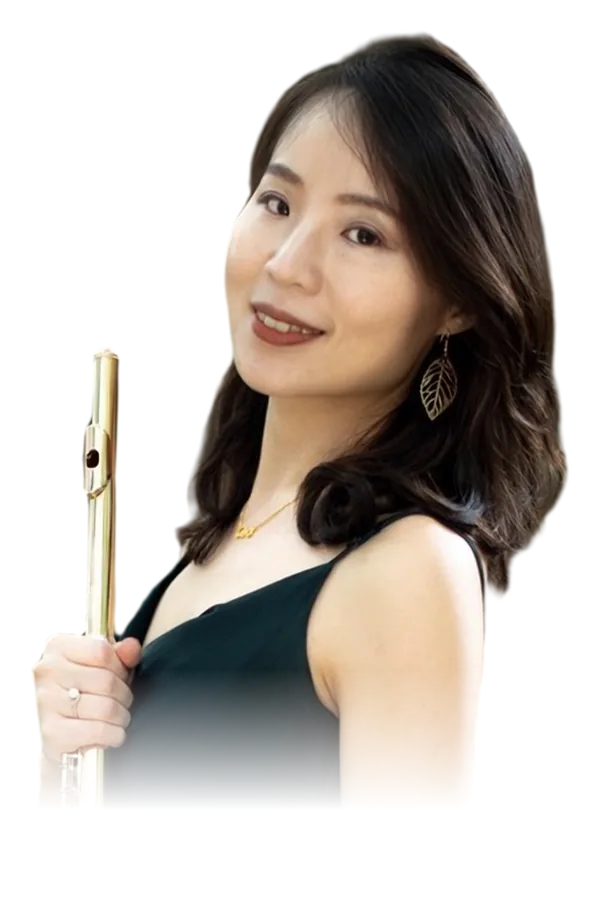
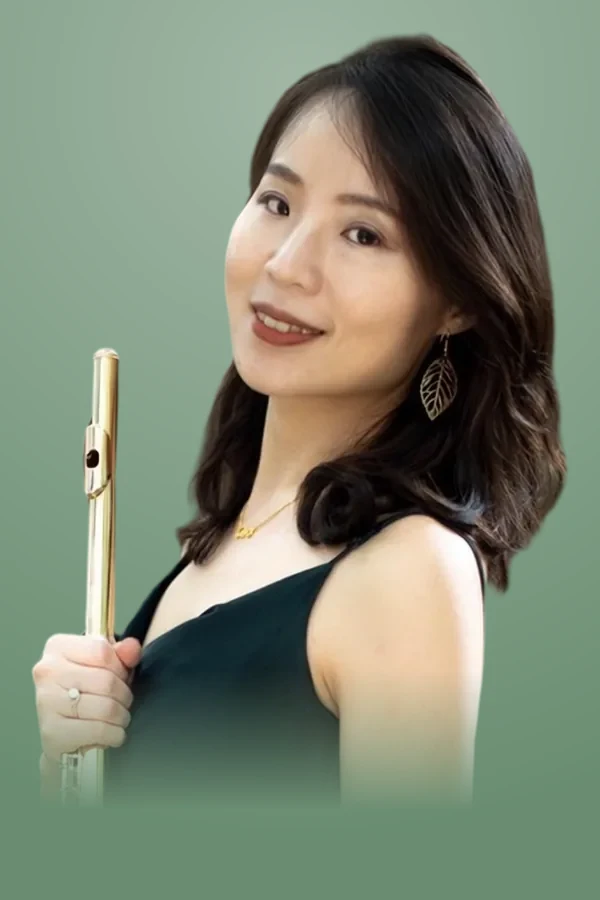
update programme layout and performer photos

diff --git a/index.html b/index.html
@@ -130,7 +130,7 @@ main>section{position:relative;padding:0 var(--gutter)}
 .piece .composer{font-size:15px;line-height:1.5;color:var(--text-2);letter-spacing:.08em;align-self:center;display:flex;flex-direction:column;align-items:flex-start;row-gap:0}
 .piece .composer .zh{white-space:nowrap}
 .piece .composer .en{font:500 14px var(--f-latin);letter-spacing:.1em;color:var(--gold);font-variant-caps:all-small-caps}
-.piece .title-zh{grid-column:2/4;font-size:19px;font-weight:600;line-height:1.5;letter-spacing:.02em;color:var(--text);text-spacing-trim:trim-start;overflow-wrap:anywhere}
+.piece .title-zh{grid-column:2/4;font-size:21px;font-weight:600;line-height:1.5;letter-spacing:.02em;color:var(--gold-hi);text-spacing-trim:trim-start;overflow-wrap:anywhere;text-shadow:0 0 18px rgba(240,214,158,.25)}
 .piece .title-en{grid-column:2/4;font-size:17px;line-height:1.45;color:var(--text-2);font-variant-numeric:oldstyle-nums proportional-nums;overflow-wrap:anywhere;letter-spacing:.01em}
 .tog{display:inline-flex;align-items:center;gap:8px;font:500 15px/1.5 var(--f-ui);letter-spacing:.14em;color:var(--gold);white-space:nowrap}
 .piece .tog{grid-column:3;grid-row:1;align-self:center}
@@ -143,6 +143,7 @@ main>section{position:relative;padding:0 var(--gutter)}
 .tog b::after{inset:0 auto 0 6px;inline-size:1px}
 [open]>summary .tog b::after{transform:scaleY(0)}
 .piece .parts{grid-column:2/4;margin-top:6px;font:500 14px/1.6 var(--f-ui);letter-spacing:.06em;color:var(--gold)}
+.piece>summary .mov{grid-column:2/4;margin:6px 0 0;pointer-events:none}
 .piece .pt{white-space:nowrap}
 .piece .pt+.pt::before{content:"・";margin:0 2px;color:var(--gold-lo)}
 .note h3,.fulltext h4{margin:1.2em 0 .4em;font-size:19px;font-weight:600;letter-spacing:.06em;color:var(--gold-hi)}
@@ -265,14 +266,14 @@ footer::before{content:"";position:absolute;top:0;left:0;right:0;block-size:1px;
       <span class="no">1</span>
       <span class="composer"><span class="en">Friedrich Kuhlau</span> <span class="zh">庫勞</span></span>
       <span class="tog" aria-hidden="true"><i class="t-open">解說</i><i class="t-close">收合</i><b></b></span>
-      <span class="title-zh">《G 小調長笛三重奏，作品 13 之 2》</span>
+      <span class="title-zh">《G 小調長笛三重奏，Op.13 No. 2》</span>
       <span class="title-en">Flute Trio in G minor, Op. 13 No. 2</span>
+      <ol class="mov"><li>Allegro non tanto</li><li>Allegro con moto</li></ol>
       <span class="parts"><span class="pt">Flute I 王思穎</span><span class="pt">Flute II 林悅慈</span><span class="pt">Flute III 蔡如雅</span></span>
     </summary>
     <div class="piece-body">
-      <ol class="mov"><li>Allegro non tanto</li><li>Allegro con moto</li></ol>
       <div class="note prose">
-        <p>庫勞（Friedrich Kuhlau）被譽為「長笛界的貝多芬」，此曲《G 小調長笛三重奏，作品 13 之 2》充分展現他對長笛音色的深刻理解，是早期浪漫樂派的長笛室內樂代表作。樂曲分為兩個對比樂章：</p>
+        <p>庫勞（Friedrich Kuhlau）被譽為「長笛界的貝多芬」，此曲《G 小調長笛三重奏，Op.13 No. 2》充分展現他對長笛音色的深刻理解，是早期浪漫樂派的長笛室內樂代表作。樂曲分為兩個對比樂章：</p>
         <h3>第一樂章　Allegro non tanto</h3>
         <p>以 G 小調奏鳴曲式寫成，第一主題深沉悲愴，帶有強烈的戲劇張力；第二主題則轉入降 B 大調，旋律優美流暢。發展部巧妙運用對位手法，三支長笛相互模仿、問答，展現庫勞對長笛音色的精湛掌控。</p>
         <h3>第二樂章　Allegro con moto</h3>
@@ -288,6 +289,7 @@ footer::before{content:"";position:absolute;top:0;left:0;right:0;block-size:1px;
       <span class="tog" aria-hidden="true"><i class="t-open">解說</i><i class="t-close">收合</i><b></b></span>
       <span class="title-zh">《奇維達萊二重奏》</span>
       <span class="title-en">Cividale – flute duo</span>
+      <ol class="mov"><li>第一樂章</li><li>第二樂章</li><li>第三樂章</li></ol>
       <span class="parts"><span class="pt">Flute I 蔡如雅</span><span class="pt">Flute II 王思穎</span></span>
     </summary>
     <div class="piece-body">
@@ -311,10 +313,10 @@ footer::before{content:"";position:absolute;top:0;left:0;right:0;block-size:1px;
       <span class="tog" aria-hidden="true"><i class="t-open">解說</i><i class="t-close">收合</i><b></b></span>
       <span class="title-zh">《鳥》</span>
       <span class="title-en">Birds</span>
+      <ol class="mov"><li>Birdsong</li><li>Flight</li><li>Journey</li></ol>
       <span class="parts"><span class="pt">Piccolo 林悅慈</span><span class="pt">Flute 蔡如雅</span><span class="pt">Alto Flute 王思穎</span></span>
     </summary>
     <div class="piece-body">
-      <ol class="mov"><li>Birdsong</li><li>Flight</li><li>Journey</li></ol>
       <div class="note prose">
         <p>荷蘭裔美國作曲家 Herman Beeftink 的作品《Birds》（鳥），是一首極具畫面感與生命力的現代長笛三重奏佳作。在這首樂曲中，聽眾彷彿能看見晨光灑落林間，聽見微風拂過樹梢。這不僅是一幅描繪大自然的聽覺風景畫，更是一場由短笛、長笛與中音長笛共同交織出的精彩對話。</p>
         <p>在這座音樂森林裡，三項樂器各自化身為不同姿態的鳥兒。短笛（Piccolo）以其極具穿透力的清亮高音，成為林間最靈動嬌小的身影。那輕巧的跳音與活潑的裝飾音，就像是充滿好奇心的幼鳥，在枝頭間無憂無慮地穿梭跳躍，為整首曲子注入了最純粹的朝氣與明亮的光彩。</p>
@@ -334,10 +336,10 @@ footer::before{content:"";position:absolute;top:0;left:0;right:0;block-size:1px;
       <span class="tog" aria-hidden="true"><i class="t-open">解說</i><i class="t-close">收合</i><b></b></span>
       <span class="title-zh">《長笛二重奏，K.156》</span>
       <span class="title-en">Flute Duo K.156</span>
+      <ol class="mov"><li>Allegretto Grazioso</li><li>Andante con Variazioni</li><li>Allegretto Scherzo</li></ol>
       <span class="parts"><span class="pt">Flute I 林悅慈</span><span class="pt">Flute II 蔡如雅</span></span>
     </summary>
     <div class="piece-body">
-      <ol class="mov"><li>Allegretto Grazioso</li><li>Andante con Variazioni</li><li>Allegretto Scherzo</li></ol>
       <div class="note prose">
         <p>這首雙長笛二重奏其實是後人改編自莫札特其他不同編制的室內樂作品，但具體來源，目前說法不太一致：</p>
         <ul><li>一個來源指出它改編自《鋼琴三重奏》K.564</li><li>也有資料庫將這組二重奏歸類為改編作品，但未明確標示每一首的原始出處</li></ul>
@@ -360,10 +362,10 @@ footer::before{content:"";position:absolute;top:0;left:0;right:0;block-size:1px;
       <span class="tog" aria-hidden="true"><i class="t-open">解說</i><i class="t-close">收合</i><b></b></span>
       <span class="title-zh">《臺灣民謠二重奏》</span>
       <span class="title-en">Traditional Taiwanese Melodies for two flutes</span>
+      <ol class="mov arabic"><li>Silhouette</li><li>Torn Fishing Net</li><li>Come back to me, Lover</li><li>Longing</li><li>Whispering Hope</li><li>Grief</li><li>Summer Jasmine</li><li>Twilight of Tam-Sui</li><li>Dreaming by the Stream</li></ol>
       <span class="parts"><span class="pt">Flute I 王思穎</span><span class="pt">Flute II 林悅慈</span></span>
     </summary>
     <div class="piece-body">
-      <ol class="mov arabic"><li>Silhouette</li><li>Torn Fishing Net</li><li>Come back to me, Lover</li><li>Longing</li><li>Whispering Hope</li><li>Grief</li><li>Summer Jasmine</li><li>Twilight of Tam-Sui</li><li>Dreaming by the Stream</li></ol>
       <div class="note prose">
         <p>被譽為「長笛界的莫札特」的蓋瑞・夏克，同時身兼長笛家、作曲家及鋼琴家，3 歲上台正式演出，5 歲發表作品，15 歲即與紐約愛樂及費城交響樂團合作，亦是現今擁有大量樂曲創作的當代長笛大師。</p>
         <p>《Traditional Taiwanese Melodies》以台灣傳統旋律為素材，透過兩支長笛的對話與交織，重新詮釋台灣民間音樂的旋律與韻味。</p>
@@ -379,10 +381,10 @@ footer::before{content:"";position:absolute;top:0;left:0;right:0;block-size:1px;
       <span class="tog" aria-hidden="true"><i class="t-open">解說</i><i class="t-close">收合</i><b></b></span>
       <span class="title-zh">《百匯天堂》長笛三重奏</span>
       <span class="title-en">Parfait Paradise</span>
+      <ol class="mov"><li>Fruit with Wafer</li><li>Flan with Pocky</li><li>Anmitsu with Mochi Cream</li><li>Chocolate with Brownie</li></ol>
       <span class="parts"><span class="pt">Flute I 蔡如雅</span><span class="pt">Flute II 王思穎</span><span class="pt">Flute III 林悅慈</span></span>
     </summary>
     <div class="piece-body">
-      <ol class="mov"><li>Fruit with Wafer</li><li>Flan with Pocky</li><li>Anmitsu with Mochi Cream</li><li>Chocolate with Brownie</li></ol>
       <div class="note prose">
         <p>八木澤教司畢業於日本武藏野音樂大學作曲學系，並在同大學取得碩士學位。其管樂曲代表作不僅在日本，在美國、歐洲、亞洲等各國間也廣泛受到喜愛。除此之外，他也是日本少數曾在新曲發表中，由被稱為世界最優秀管樂團之一的法國巴黎禁衛軍交響管樂團（Orchestre d'Harmonie de la Garde Républicaine）首演作品的作曲家。</p>
         <p>到目前為止，他曾受邀為日本全國植樹祭、國民運動大會、全國高等學校綜合體育大會以及許多學校創作樂曲，並曾擔任各式大賽評審、客席指揮、指導、受邀演講，以及音樂雜誌執筆和音樂出版社的諮詢等，是現在在世界上受到注目、最有氣勢的年輕作曲家之一。</p>
